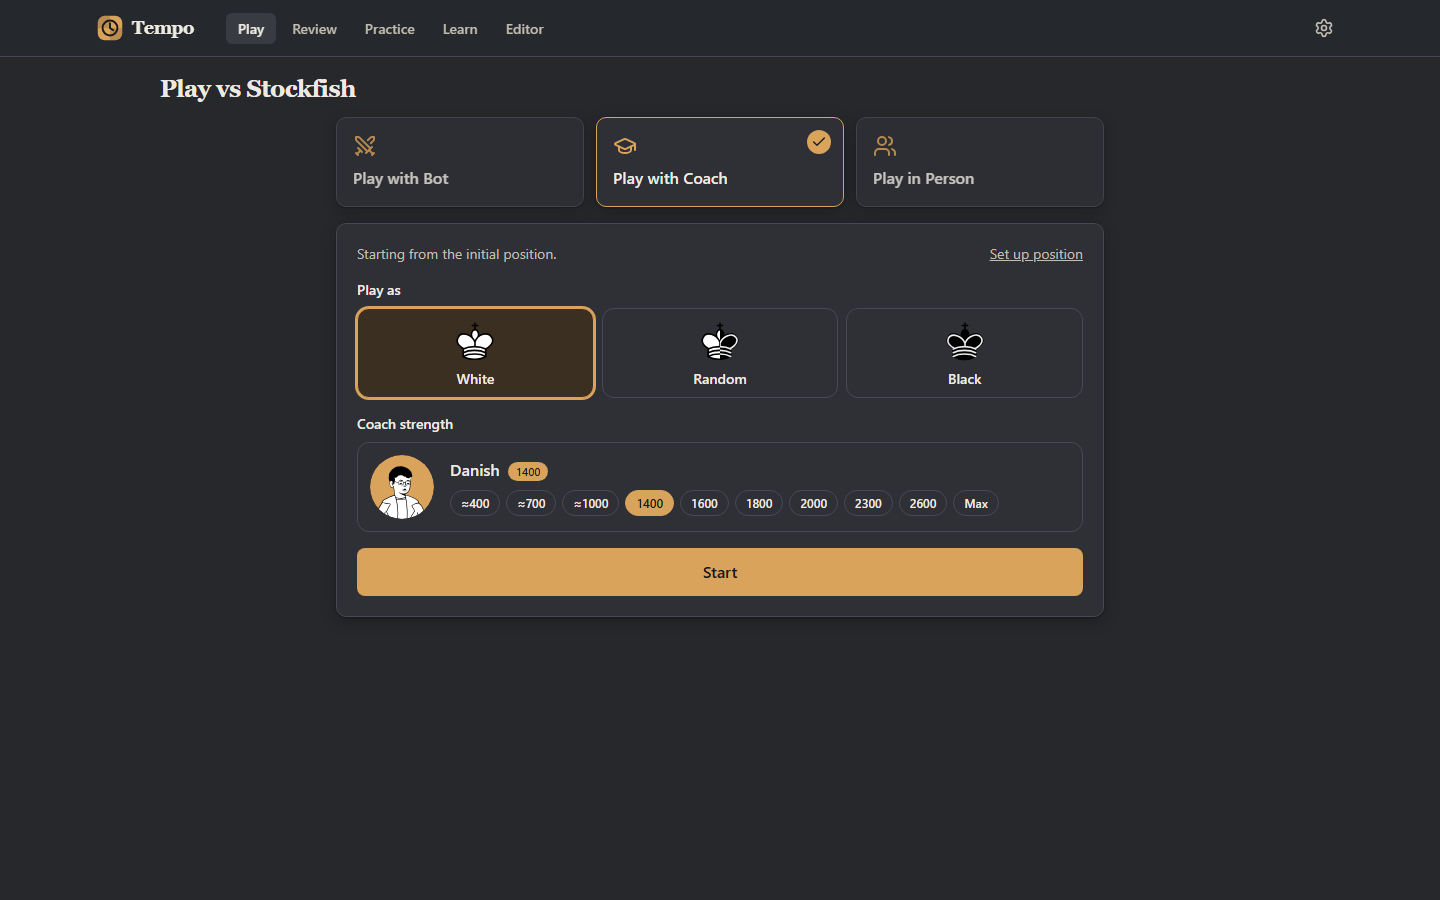
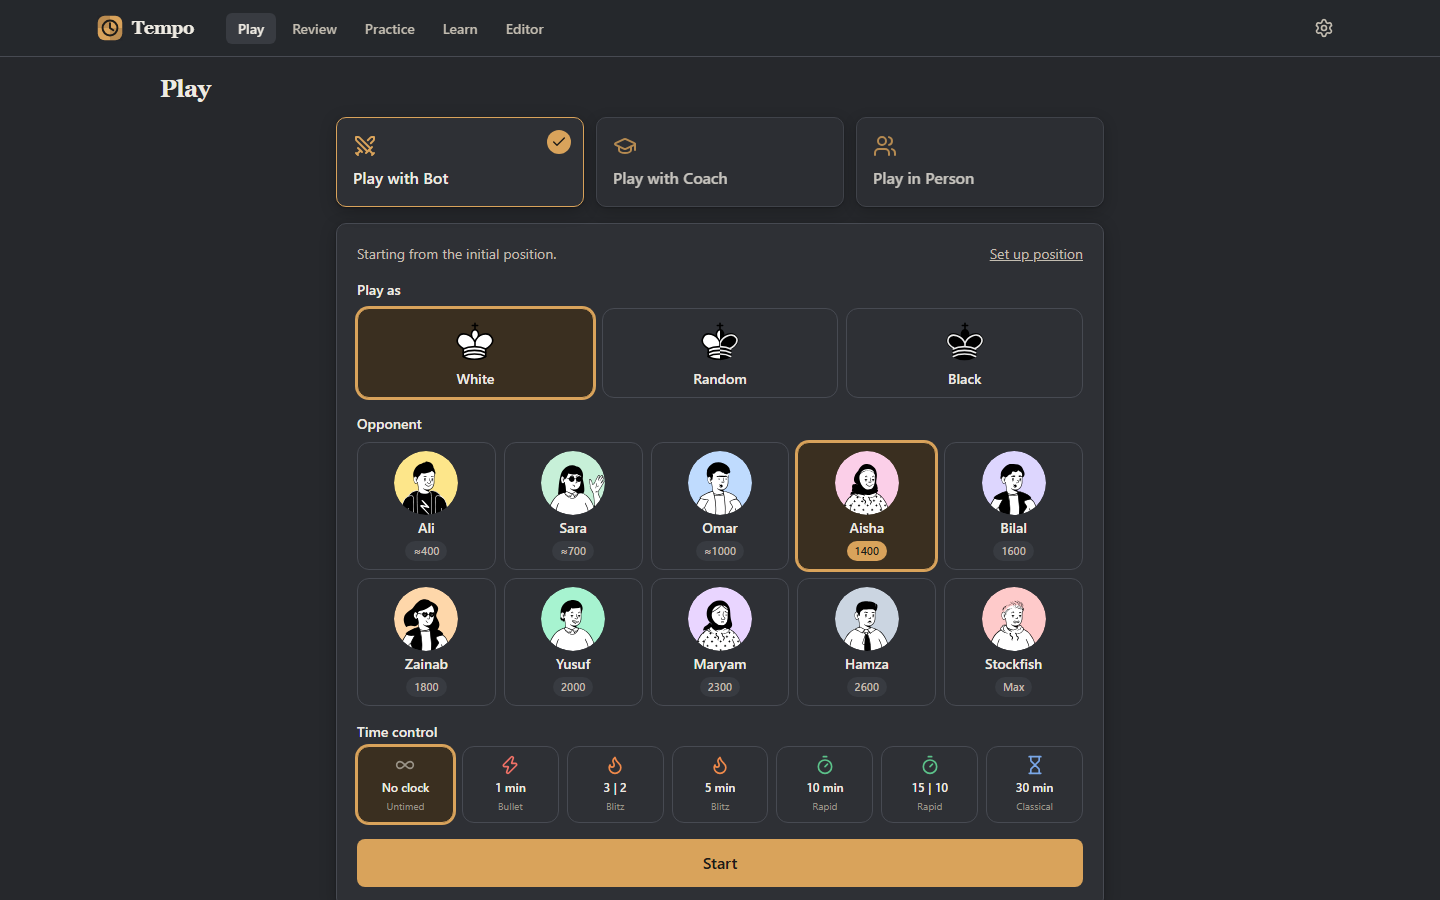
Add more README screenshots

diff --git a/README.md b/README.md
@@ -8,10 +8,14 @@ Tempo lets you play bots, a coach or a friend, review your games move by move, p
 
 | | |
 | --- | --- |
-| ![Play with a bot or the coach](docs/screenshots/play.png) | ![Puzzles](docs/screenshots/puzzles.png) |
-| **Play** — bots, a coach or a friend | **Puzzles** — 10,000, by level and theme |
-| ![Endgame trainer](docs/screenshots/endgames.png) | ![Learn openings](docs/screenshots/openings.png) |
-| **Endgames** — against perfect tablebase defence | **Learn** — openings, tactics and a glossary |
+| ![Import your Chess.com games](docs/screenshots/import.png) | ![Play with a bot or the coach](docs/screenshots/play.png) |
+| **Review** — import from Chess.com, Lichess or PGN | **Play** — bots, a coach or a friend |
+| ![Puzzles](docs/screenshots/puzzles.png) | ![Endgame trainer](docs/screenshots/endgames.png) |
+| **Puzzles** — 10,000, by level and theme | **Endgames** — against perfect tablebase defence |
+| ![Learn openings](docs/screenshots/openings.png) | ![Tactics](docs/screenshots/tactics.png) |
+| **Openings** — watch the main line, then practise it | **Tactics** — 27 motifs with real examples |
+| ![Settings](docs/screenshots/settings.png) | ![Board editor](docs/screenshots/editor.png) |
+| **Settings** — board themes and piece sets | **Board editor** — set up any position |
 
 - Import public **Chess.com** or **Lichess** games by username, paste a Lichess game link, upload `.pgn` files, or paste PGN.
 - **Full game review**: every move classified (Brilliant, Great, Best, Excellent, Good, Book, Inaccuracy, Mistake, Miss, Blunder), per-player accuracy, key moments, an evaluation graph and move-quality badges on the board.
